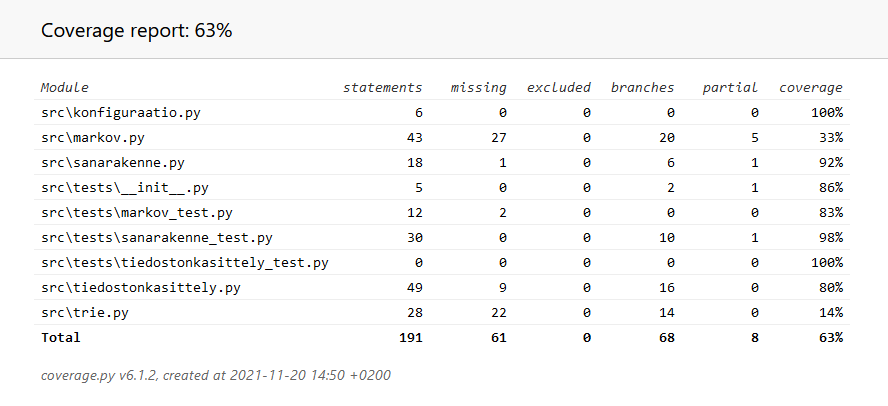
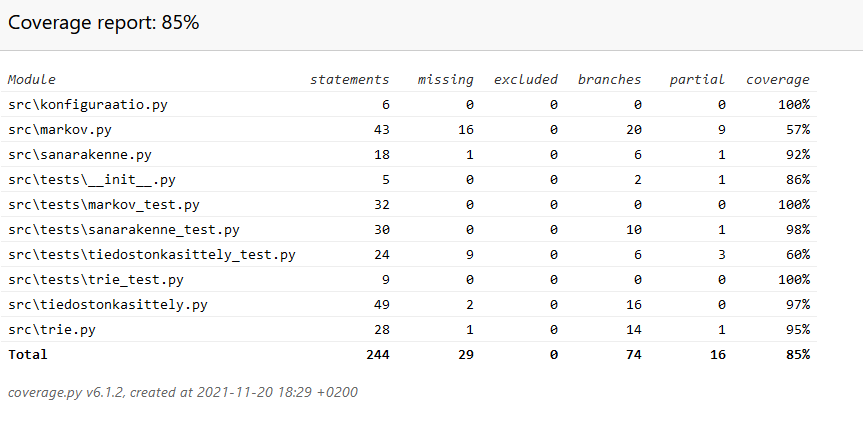
testikattavuuden parantamista ja pieniä koodin laatuparannuksia

diff --git a/src/tests/markov_test.py b/src/tests/markov_test.py
@@ -1,14 +1,37 @@
 import unittest
 from unittest.mock import patch
-from markov import luo_lause
-from tiedostonkasittely import load_data_dict
+from markov import luo_lause, luo_lause_trie
+from tiedostonkasittely import load_data_dict, load_data_trie
 
 class TestMarkov(unittest.TestCase):
     def setUp(self):
-        self.data = load_data_dict()
+        self.data_dict = load_data_dict()
+        self.data_trie = load_data_trie()
 
-    def test_yksi_sana(self):
+    def test_yksi_sana_dict(self):
         try:
-            luo_lause(self.data, "sana")
+            sana = luo_lause(self.data_dict, "sana")
+            self.assertEqual(isinstance(sana, str))
+        except:
+            self.assertFalse
+
+    def test_yksi_sana_trie(self):
+        try:
+            sana = luo_lause_trie(self.data_trie, "sana")
+            self.assertEqual(isinstance(sana, str))
+        except:
+            self.assertFalse
+
+    def test_monta_sanaa_dict(self):
+        try:
+            sana = luo_lause(self.data_dict, "monen sanan lause")
+            self.assertEqual(isinstance(sana, str))
+        except:
+            self.assertFalse
+
+    def test_monta_sanaa_trie(self):
+        try:
+            sana = luo_lause_trie(self.data_trie, "sana")
+            self.assertEqual(isinstance(sana, str))
         except:
             self.assertFalse

diff --git a/src/tests/tiedostonkasittely_test.py b/src/tests/tiedostonkasittely_test.py
@@ -1,9 +1,27 @@
-"""import unittest
-from tiedostonkasittely import load_data_dict
+import unittest
+from tiedostonkasittely import load_data_dict, load_data_trie, avaa_tiedosto
 
 class TestTiedostonKasittely(unittest.TestCase):
-    def test_avaaminen(self):
+    def test_avaaminen_dict(self):
         try:
-            load_data_dict()
-        except Exception:
-            self.assertFalse"""
+            data = load_data_dict()
+        except:
+            self.assertFalse
+        if not data:
+            self.assertFalse
+
+    def test_avaaminen_trie(self):
+        try:
+            juuri = load_data_trie()
+        except:
+            self.assertFalse
+        if not juuri:
+            self.assertFalse
+
+    def test_avaa_tiedosto(self):
+        try:
+            file = avaa_tiedosto()
+        except:
+            self.assertFalse
+        if not file:
+            self.assertFalse

diff --git a/src/tests/trie_test.py b/src/tests/trie_test.py
@@ -1,0 +1,12 @@
+import unittest
+from trie import TrieNode
+
+class TestTrie(unittest.TestCase):
+    def setUp(self):
+        self.juuri = TrieNode("tämä on testi lause".split())
+
+    def test_lisaa(self):
+        self.assertEqual(True,"t" in self.juuri.seuraavat_kirjaimet)
+
+    def test_anna_sana(self):
+        self.assertEqual("lause",self.juuri.anna_sana("tämäontesti"))

diff --git a/src/trie.py b/src/trie.py
@@ -49,7 +49,7 @@ class TrieNode:
         ja käyttämällä SanaRakenne-luokkaa seuraavan sanan valitsemiseen
 
         Args:
-            haku (string): sana, tai lause, jota seuraava sana etsitään
+            haku (string): sana, tai lause, josta seuraava sana etsitään
 
         Returns:
             string: seuraava sana

diff --git a/dokumentaatio/testaus.md b/dokumentaatio/testaus.md
@@ -14,4 +14,4 @@ Tiedostossa src/konfiguraatio.py on enum tyyppinen muuttuja MODE. Vaihtamalla se
 
 ## Testiraportit
 ### Tämän hetkinen kattavuus:
-![Testikattavuus](./kuvat/testikattavuus.png)
+![Testikattavuus](https://github.com/MyVeli/tiralabra/blob/master/dokumentaatio/kuvat/testikattavuus.PNG)
